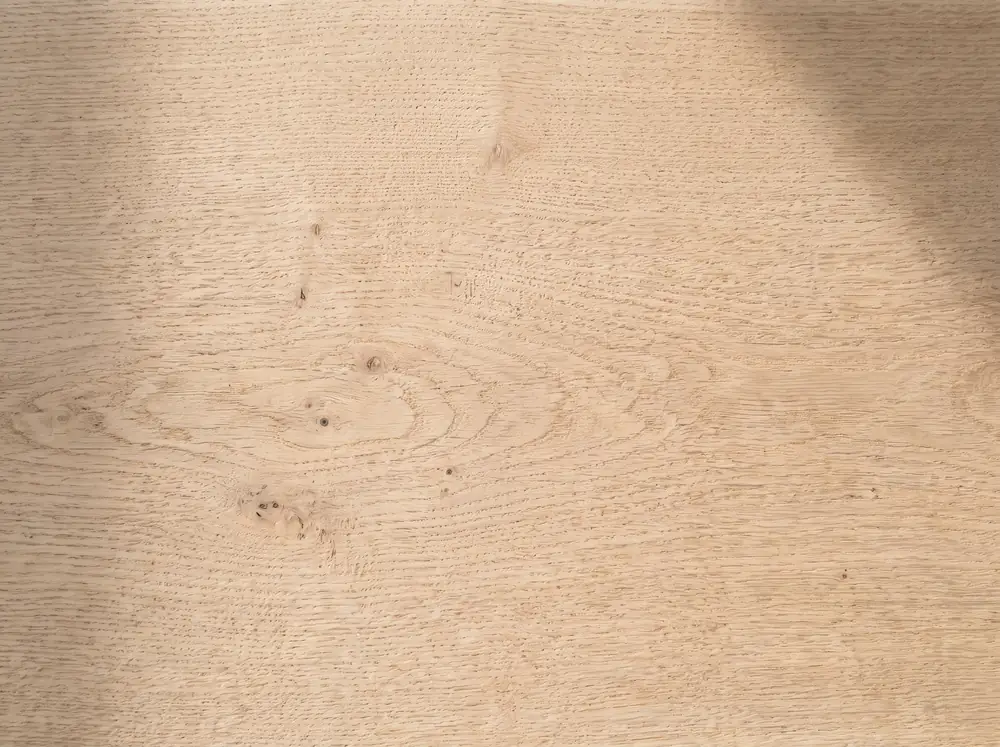
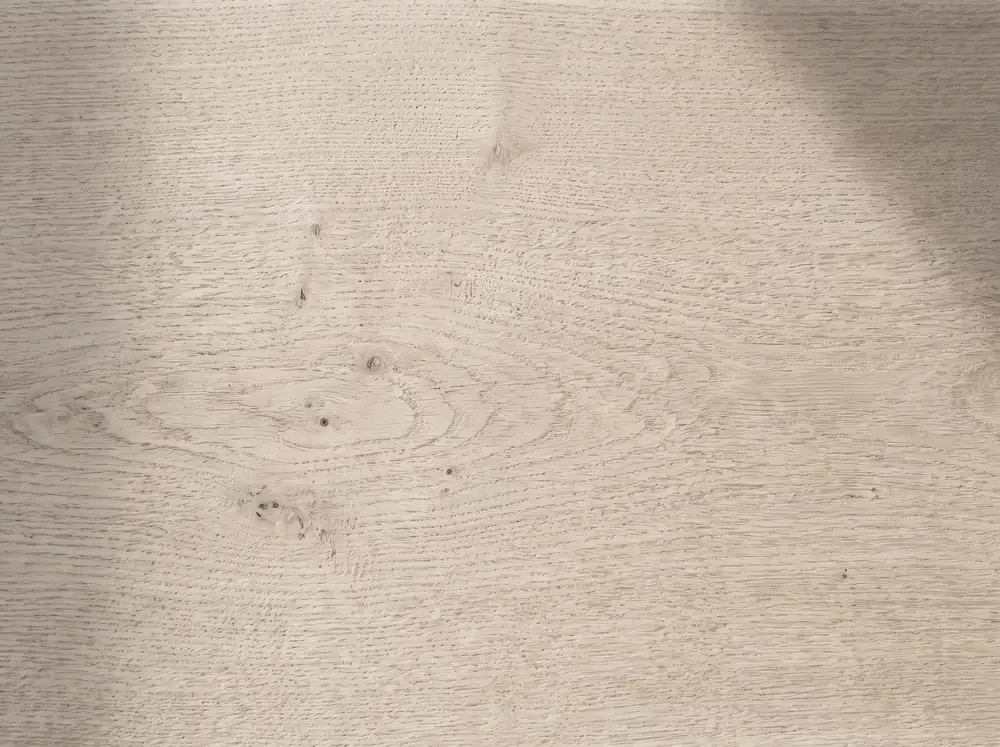
fix: Bauanweisungen von der oeffentlichen Seite, Tippziele, Palette, Sichtpruefung
DIE SICHTPRUEFUNG HAT DREIMAL GELOGEN — jetzt nicht mehr
  Sie sprang in 0,7-Bildschirmschritten mit setTimeout dazwischen. Ein
  IntersectionObserver meldet an Frame-Grenzen; wer so springt, schiebt
  Elemente durch das Bild, ohne dass je ein Frame mit ihnen darin gerendert
  wird. Und am Ende sprang sie sofort zurueck nach oben, sodass die Meldungen
  der zuletzt gesehenen Elemente ins Leere liefen.
  Folge: 14 Elemente galten als unsichtbar — die ganze Leistungsliste und der
  komplette Terminblock. /team/ zeigte angeblich zwei von drei Personen.
  Mit rAF-Schritten und einem Warten am Seitenende gegengeprueft: alle da.
  Eine echte Nutzerin war nie betroffen, sie springt nicht zurueck.
  Jetzt 0 Warnungen auf 21 Seitenaufnahmen.

BAUANWEISUNGEN AUF EINER OEFFENTLICHEN SEITE
  /team/ zeigte bei fehlendem Foto: 'Hochformat, mindestens 800 px breit,
  Licht von links. Ablegen unter /bilder/team/ und in der Redaktion
  auswaehlen.' Eine Patientin las einen Dateipfad. Dieselbe Anweisung steht
  ausserdem schon in inhalt/schema.json, also dort, wo Yvonne sie beim
  Bearbeiten sieht — zwei Fassungen, die driften koennen.
  Jetzt ein Satz fuer die Leserin: 'Die Fotos entstehen im Oktober.'

DIE PRAXISNUMMER WAR DAS KLEINSTE TIPPZIEL DER SEITE
  20px, waehrend 112 und 116 117 daneben bei 44px liegen. Verweise, die als
  direktes Kind eines dd stehen, sind keine Saetze sondern Werte im
  Feldraster — die bekommen jetzt das volle Tippziel. Verweise IM Satz bleiben
[…]

diff --git a/src/components/start/TerminBlock.tsx b/src/components/start/TerminBlock.tsx
@@ -1,5 +1,4 @@
 import { praxis, notruf } from '../../praxis.config';
-import { zeiten, hatZeiten, zeitenStehenAus } from '../../inhalt';
 import { Enthuellen } from '../ui/Enthuellen';
 import { steht } from '../ui/Angabe';
 import { weg } from '../../lib/weg';
@@ -33,7 +32,6 @@ import { weg } from '../../lib/weg';
 export function TerminBlock() {
   const telefon = praxis.telefon.href;
   const telefonSteht = steht(telefon) && steht(praxis.telefon.anzeige);
-  const naechsteZeiten = zeiten.filter(hatZeiten).slice(0, 3);
 
   return (
     <section className="sektion termin" aria-labelledby="termin-titel">
@@ -90,36 +88,25 @@ export function TerminBlock() {
               <dt>Telefonzeiten</dt>
               <dd>{praxis.telefonzeiten ?? <span className="luecke">stehen noch nicht fest</span>}</dd>
             </div>
-            <div className="termin__zeile">
-              <dt>Sprechzeiten</dt>
-              <dd>
-                {zeitenStehenAus ? (
-                  <span className="luecke">stehen noch nicht fest</span>
-                ) : (
-                  <ul className="termin__zeitliste">
-                    {naechsteZeiten.map((z) => (
-                      <li key={z.tag}>
-                        <span>{z.tag}</span>
-                        {/* Jede Spanne ein eigenes Element, statt einer Zeichenkette.
-                            Als „08:00 – 12:30 · 15:00 – 18:00" mit `nowrap` war die
-                            Zeile bei 393px 223px breit und schob die Seite um 96px
-                            seitlich heraus — sichtbar erst, seit hier echte Zeiten
-                            stehen. Jetzt bricht es ZWISCHEN den Spannen um, und
-                            jede einzelne bleibt zusammen: „08:00 –\n12:30" wäre
-                            in einer Zeittabelle schlimmer als ein Umbruch. */}
-                        <span className="termin__spanne">
-                          {[z.vormittag, z.nachmittag].filter(Boolean).map((t) => (
-                            <span className="termin__teil" key={t}>
-                              {t}
-                            </span>
-                          ))}
-                        </span>
-                      </li>
-                    ))}
-                  </ul>
-                )}
-              </dd>
-            </div>
+            {/*
+              ═══ Warum hier KEINE Sprechzeiten mehr stehen ═══
+
+              Weil sie auf dieser einen Seite dreimal standen: im Hero die von
+              heute, hier die naechsten drei Tage, und in der Fusszeile die
+              vollstaendige Tabelle. Gemessen am 20.08.2026 war der Terminblock
+              mit 1,55 Bildschirmhoehen die laengste Sektion der Startseite am
+              Handy — ein gutes Stueck davon war Wiederholung.
+
+              Drei Fassungen derselben Angabe sind ausserdem drei Stellen, an
+              denen sie falsch werden kann. Sie kommen zwar alle aus
+              inhalt/zeiten.json und koennen nicht auseinanderlaufen — aber eine
+              Patientin, die dreimal dieselbe Tabelle liest, glaubt beim dritten
+              Mal nicht mehr, dass sie etwas Neues erfaehrt.
+
+              Was bleibt: heute oben, vollstaendig unten, und der Weg zu /termin/
+              als Knopf. Das ist einmal die Antwort und einmal der Ort, an dem
+              alles steht.
+            */}
           </dl>
         </Enthuellen>
 

diff --git a/src/seiten/TeamSeite.tsx b/src/seiten/TeamSeite.tsx
@@ -46,13 +46,30 @@ export default function TeamSeite() {
                   alt={p.bildAlt}
                 />
               ) : (
+                /*
+                 * ═══ Warum hier keine Aufnahmehinweise mehr stehen ═══
+                 *
+                 * Bis zum 20.08.2026 stand an dieser Stelle „Hochformat,
+                 * mindestens 800 px breit, Licht von links. Ablegen unter
+                 * /bilder/team/ und in der Redaktion auswählen." Das ist eine
+                 * Anweisung an die Person, die das Foto einsetzt — und sie stand
+                 * auf einer ÖFFENTLICHEN Seite. Eine Patientin, die wissen will,
+                 * wer sie empfängt, las einen Dateipfad.
+                 *
+                 * Zweiter Grund, unabhängig vom ersten: dieselbe Anweisung steht
+                 * bereits in `inhalt/schema.json` beim Feld `bild` — also genau
+                 * dort, wo Yvonne sie beim Bearbeiten sieht. Zwei Fassungen
+                 * derselben Anweisung driften auseinander, sobald jemand eine
+                 * davon anfasst, und dann widersprechen sich Editor und Seite.
+                 *
+                 * Was bleibt, ist ein Satz für die Leserin: dass hier ein Foto
+                 * hingehört und wann es kommt. Das ist wahr und geht niemanden
+                 * etwas an, der es nicht einsetzen muss.
+                 */
                 <p className="team__rahmen">
-                  <span className="luecke">Foto fehlt</span>
+                  <span className="luecke">Foto folgt</span>
                   <span className="t-meta team__rahmen-hinweis">
-                    Hochformat, mindestens 800 px breit, Licht von links.
-                    <br />
-                    Ablegen unter <code>/bilder/team/</code> und in der Redaktion auswählen — die
-                    Bildbeschreibung nicht vergessen.
+                    Die Praxis wird gerade eingerichtet. Die Fotos entstehen im Oktober.
                   </span>
                 </p>
               )}

diff --git a/src/styles/global.css b/src/styles/global.css
@@ -261,6 +261,34 @@ main {
   transition: text-decoration-thickness var(--dauer-mikro) var(--ease-ruhig);
 }
 
+/**
+ * Ein Verweis, der ALLEIN als Wert dasteht — Telefonnummer, E-Mail-Adresse —
+ * bekommt ein volles Tippziel.
+ *
+ * ═══ Warum nur diese und nicht jeder `.link` ═══
+ *
+ * Weil die WCAG (2.5.8, Zielgroesse) fuer Verweise INNERHALB eines Satzes eine
+ * ausdrueckliche Ausnahme macht: einen Verweis mitten im Fliesstext auf 44px
+ * aufzublasen zerreisst den Zeilenabstand, und der Gewinn ist keiner — man
+ * trifft ihn ueber das Wort.
+ *
+ * Ein Verweis, der als direktes Kind eines `dd` steht, ist dagegen kein Satz,
+ * sondern ein Wert in einem Feldraster. Genau den tippt jemand an.
+ *
+ * ═══ Warum das hier besonders zaehlt ═══
+ *
+ * Gemessen am 20.08.2026: die Telefonnummer der Praxis war mit 20px das
+ * KLEINSTE Tippziel der ganzen Seite — waehrend 112 und 116 117 daneben bei
+ * 44px liegen, weil die Direktion das ausdruecklich verlangt.
+ * Die Nummer der Praxis ist das, was eine Schwangere mit einer Frage anruft.
+ * Sie darf nicht schwerer zu treffen sein als der Rettungsdienst.
+ */
+dd > .link {
+  display: inline-flex;
+  align-items: center;
+  min-height: var(--tippziel);
+}
+
 .link:hover {
   text-decoration-thickness: 2px;
 }
